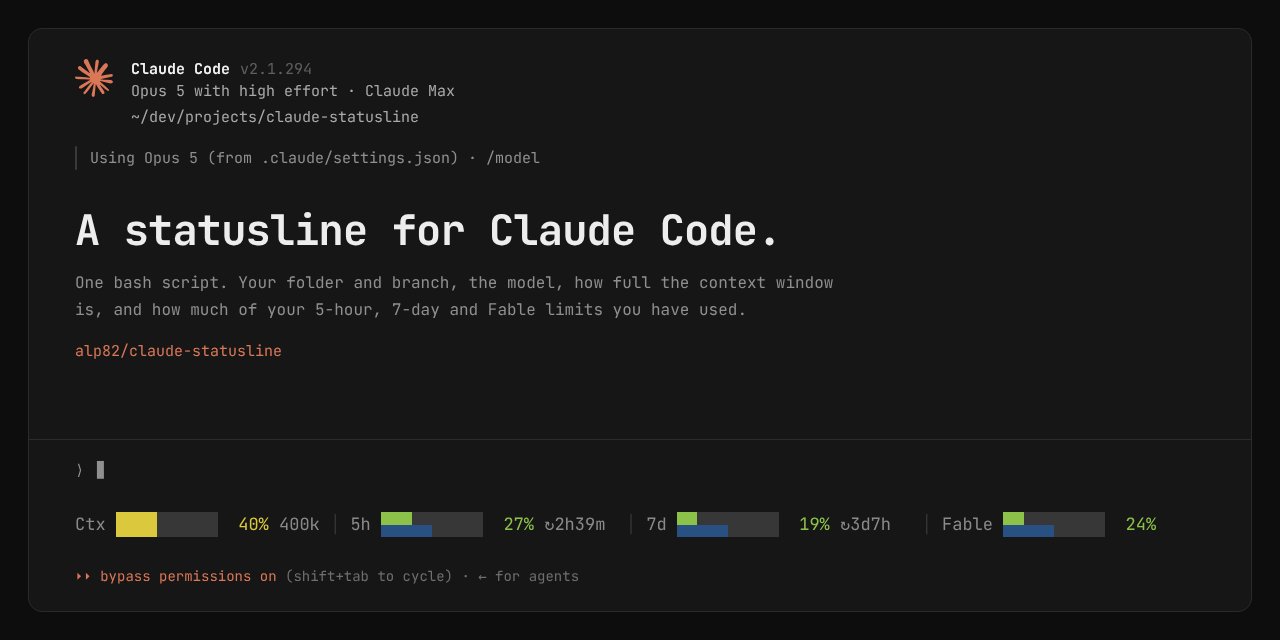
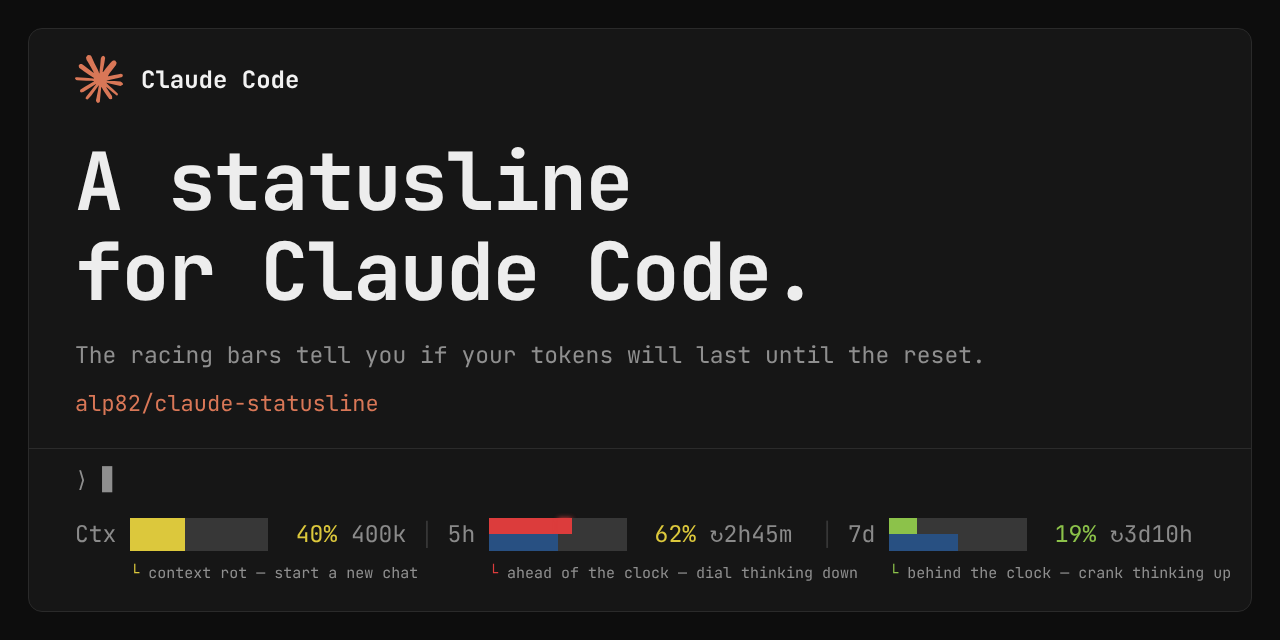
Simplify the social card: bigger type, labelled bars, no Fable segment
The card was a shrunk landing page: six text blocks and a 106-cell
statusline at 17px. Now the headline runs two lines at 80px, the header
is only the logo and the product name, and the docked line drops the
Fable segment to render at 23px.

The line's readings are hand-picked to show the three calls to action,
each captioned under its bar: context rot, the 5-hour spend ahead of
its clock (red, with the overshoot glow), the 7-day spend behind its
clock (green).

Claude-Session: https://claude.ai/code/session_01MVZnkhJk8RPFiz25mXyQiG

diff --git a/remotion/src/Social.tsx b/remotion/src/Social.tsx
@@ -1,8 +1,10 @@
 import React from 'react';
 import {AbsoluteFill, Img, staticFile} from 'remotion';
 import {Statusline} from './statusline/Statusline';
-import {STILL_PROGRESS, storyById} from './stories';
-import {colors, fontFamily, page} from './theme';
+import {barColumns, buildSegments} from './statusline/segments';
+import {FIVE_WINDOW, WEEK_WINDOW, ctxTokens, remaining} from './stories';
+import type {StatuslineState} from './statusline/types';
+import {cellWidth, colors, ctxColor, fontFamily, paceColor, page} from './theme';
 
 /**
  * One inline rhythm for every region in the frame — the craft rule carried over
@@ -11,74 +13,116 @@ import {colors, fontFamily, page} from './theme';
  */
 const PAD = 46;
 
-const Head: React.FC = () => (
-  <div style={{display: 'flex', gap: 18, padding: `30px ${PAD}px 16px`}}>
-    <Img
-      src={staticFile('claude-logo.svg')}
-      style={{width: 38, height: 38, flex: 'none'}}
-    />
-    <div>
-      <div>
-        <span style={{color: '#f2f2f2', fontWeight: 700}}>Claude Code</span>
-        <span style={{color: '#5f5f5f', marginLeft: 10}}>v2.1.294</span>
-      </div>
-      <div style={{color: '#a9a9a9', lineHeight: 1.7}}>
-        Opus 5 with high effort · Claude Max
-      </div>
-      <div style={{color: '#a9a9a9', lineHeight: 1.7}}>
-        ~/dev/projects/claude-statusline
-      </div>
-    </div>
-  </div>
-);
+/**
+ * The docked line drops the Fable segment: 82 cells instead of 106, which is
+ * what lets it render a third larger on a card read at thumbnail size.
+ *
+ * The three readings are hand-picked so each bar demonstrates the label under
+ * it: context at 40%, the 5-hour spend ahead of its clock (red), the 7-day
+ * spend behind its clock (green).
+ */
+const FIVE = {pct: 62, elapsed: 45};
+const WEEK = {pct: 19, elapsed: 51};
+const CTX = 40;
 
-const Hint: React.FC = () => (
+const dockState = (): StatuslineState => ({
+  ctx: CTX,
+  ctxTokens: ctxTokens(CTX),
+  five: {...FIVE, resetsIn: remaining(FIVE.elapsed, FIVE_WINDOW)},
+  week: {...WEEK, resetsIn: remaining(WEEK.elapsed, WEEK_WINDOW)},
+});
+
+const Head: React.FC = () => (
   <div
     style={{
       display: 'flex',
-      gap: 13,
-      color: page.muted,
-      padding: `0 ${PAD}px`,
-      lineHeight: 1.6,
+      alignItems: 'center',
+      gap: 18,
+      padding: `26px ${PAD}px 0`,
     }}
   >
-    <span
-      style={{width: 2, flex: '0 0 2px', background: '#3a3a3a', borderRadius: 2}}
+    <Img
+      src={staticFile('claude-logo.svg')}
+      style={{width: 48, height: 48, flex: 'none'}}
     />
-    <span>Using Opus 5 (from .claude/settings.json) · /model</span>
+    <span style={{color: '#f2f2f2', fontWeight: 700, fontSize: 24}}>
+      Claude Code
+    </span>
   </div>
 );
 
+/** What each bar says to do, in the pace colour the bar itself shows. */
+const LABELS: {id: 'ctx' | 'five' | 'week'; color: string; text: string}[] = [
+  {id: 'ctx', color: ctxColor(CTX), text: 'context rot — start a new chat'},
+  {
+    id: 'five',
+    color: paceColor(FIVE.pct, FIVE.elapsed),
+    text: 'ahead of the clock — dial thinking down',
+  },
+  {
+    id: 'week',
+    color: paceColor(WEEK.pct, WEEK.elapsed),
+    text: 'behind the clock — crank thinking up',
+  },
+];
+
+/**
+ * One label under each bar, anchored to the bar's own start column — the same
+ * cell grid the line is laid out on, so nothing is measured from the DOM.
+ */
+const Labels: React.FC<{fontSize: number}> = ({fontSize}) => {
+  const segments = buildSegments(dockState());
+  const cw = cellWidth(fontSize);
+  return (
+    <div
+      style={{
+        position: 'relative',
+        height: 22,
+        margin: `12px ${PAD}px 0`,
+        fontSize: 15,
+        whiteSpace: 'pre',
+      }}
+    >
+      {LABELS.map(({id, color, text}) => {
+        const bar = barColumns(segments, id);
+        if (!bar) return null;
+        return (
+          <span
+            key={id}
+            style={{position: 'absolute', left: bar.start * cw, top: 0}}
+          >
+            <span style={{color}}>└ </span>
+            <span style={{color: page.muted}}>{text}</span>
+          </span>
+        );
+      })}
+    </div>
+  );
+};
+
 /**
  * The docked line, exactly where the real statusline renders: under the `⟩`
- * prompt, above the mode line.
+ * prompt, with the three labels where the mode line would sit.
  */
 const Dock: React.FC<{fontSize: number}> = ({fontSize}) => (
   <>
     <div
       style={{
         borderTop: `1px solid #2b2b2b`,
-        padding: `20px ${PAD}px`,
+        padding: `16px ${PAD}px`,
         display: 'flex',
-        gap: 13,
-        color: '#6a6a6a',
+        gap: 14,
+        fontSize: 22,
       }}
     >
       <span style={{color: page.muted}}>⟩</span>
       <span style={{color: page.muted}}>▊</span>
     </div>
-    <div style={{padding: `12px ${PAD}px 30px`}}>
-      <Statusline
-        state={storyById('whole-line').at(STILL_PROGRESS)}
-        fontSize={fontSize}
-      />
+    <div style={{padding: `8px ${PAD}px 0`}}>
+      <Statusline state={dockState()} fontSize={fontSize} glow={['five']} />
     </div>
-    <div style={{color: page.brand, padding: `0 ${PAD}px 26px`, fontSize: 14}}>
-      ⏵⏵ bypass permissions on{' '}
-      <span style={{color: page.faint}}>
-        (shift+tab to cycle) · ← for agents
-      </span>
-    </div>
+    <Labels fontSize={fontSize} />
+    <div style={{height: 26}} />
   </>
 );
 
@@ -88,9 +132,9 @@ export type SocialProps = {
 };
 
 /**
- * The 1280×640 social preview: the landing page's above-the-fold view. The
- * headline is what survives being scaled down to a timeline thumbnail; the
- * docked line underneath is the proof, legible at full size.
+ * The 1280×640 social preview: a stripped-down Claude Code frame. The headline
+ * is what survives being scaled down to a timeline thumbnail; the docked line
+ * underneath is the proof, each bar captioned with the action it asks for.
  */
 export const Social: React.FC<SocialProps> = ({statuslineFontSize}) => (
   // The frame is a terminal, so every word in it is monospace. `Statusline` sets
@@ -108,39 +152,36 @@ export const Social: React.FC<SocialProps> = ({statuslineFontSize}) => (
         border: '1px solid #2a2a2a',
         borderRadius: 14,
         overflow: 'hidden',
-        fontSize: 15,
         color: page.fg,
       }}
     >
       <Head />
-      <Hint />
 
-      <div style={{padding: `36px ${PAD}px 0`}}>
+      <div style={{padding: `34px ${PAD}px 0`}}>
         <h1
           style={{
             margin: 0,
-            fontSize: 42,
+            fontSize: 80,
             fontWeight: 700,
             letterSpacing: '-0.02em',
-            lineHeight: 1.15,
+            lineHeight: 1.12,
           }}
         >
-          A statusline for Claude Code.
+          A statusline
+          <br />
+          for Claude Code.
         </h1>
         <p
           style={{
-            margin: '16px 0 0',
+            margin: '22px 0 0',
             color: page.muted,
-            fontSize: 16,
-            lineHeight: 1.65,
-            maxWidth: 780,
+            fontSize: 23,
+            lineHeight: 1.5,
           }}
         >
-          One bash script. Your folder and branch, the model, how full the
-          context window is, and how much of your 5-hour, 7-day and Fable limits
-          you have used.
+          The racing bars tell you if your tokens will last until the reset.
         </p>
-        <p style={{margin: '18px 0 0', color: page.brand, fontSize: 15}}>
+        <p style={{margin: '16px 0 0', color: page.brand, fontSize: 22}}>
           alp82/claude-statusline
         </p>
       </div>

diff --git a/remotion/src/compositions.ts b/remotion/src/compositions.ts
@@ -65,8 +65,9 @@ export const SOCIAL = {
   width: 1280,
   height: 640,
   /**
-   * The largest size at which all 106 cells still clear the frame's padding:
-   * (1280 − 2×28 outer − 2×46 inline) / 106 cells / 0.6 advance ≈ 17.8.
+   * The largest size at which the card's 82 cells (the whole line minus the
+   * Fable segment — see `dockState` in Social.tsx) still clear the frame's
+   * padding: (1280 − 2×28 outer − 2×46 inline) / 82 cells / 0.6 advance ≈ 23.0.
    */
-  statuslineFontSize: 17,
+  statuslineFontSize: 23,
 } as const;
